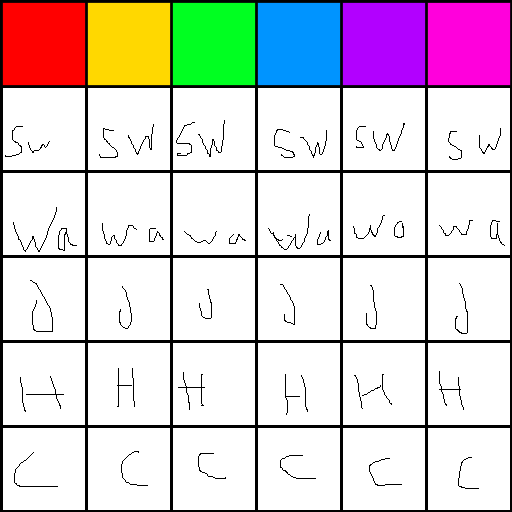
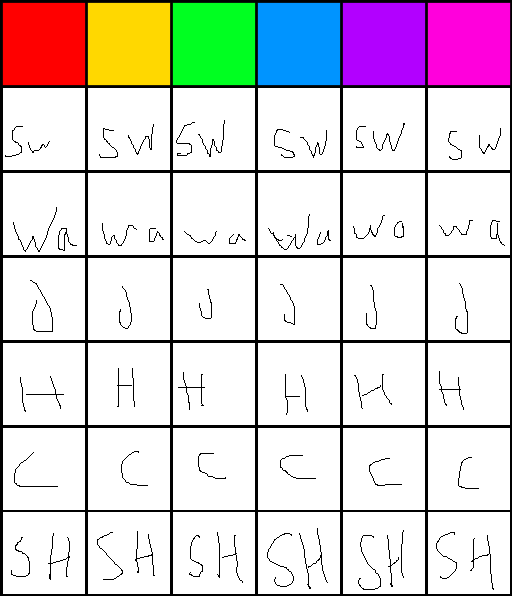
added all animations text needs work

diff --git a/MuddyGames-gameplay-programming-i-lab-03-190beb993580/AnimationFSM/main.cpp b/MuddyGames-gameplay-programming-i-lab-03-190beb993580/AnimationFSM/main.cpp
@@ -19,6 +19,8 @@ int main()
 		return EXIT_FAILURE;
 	}
 
+	int timer = 0;
+
 	// Setup Players Default Animated Sprite idle
 	AnimatedSprite Idle(texture);
 	Idle.addFrame(sf::IntRect(3, 3, 84, 84));
@@ -52,8 +54,32 @@ int main()
 	Sword.addFrame(sf::IntRect(343, 87, 84, 84));
 	Sword.addFrame(sf::IntRect(428, 87, 84, 84));
 
+	AnimatedSprite Hammer(texture);
+	Hammer.addFrame(sf::IntRect(3, 352, 84, 84));
+	Hammer.addFrame(sf::IntRect(88, 352, 84, 84));
+	Hammer.addFrame(sf::IntRect(173, 352, 84, 84));
+	Hammer.addFrame(sf::IntRect(258, 352, 84, 84));
+	Hammer.addFrame(sf::IntRect(343, 352, 84, 84));
+	Hammer.addFrame(sf::IntRect(428, 352, 84, 84));
+
+	AnimatedSprite Shovel(texture);
+	Shovel.addFrame(sf::IntRect(3, 515, 84, 84));
+	Shovel.addFrame(sf::IntRect(88, 515, 84, 84));
+	Shovel.addFrame(sf::IntRect(173, 515, 84, 84));
+	Shovel.addFrame(sf::IntRect(258, 515, 84, 84));
+	Shovel.addFrame(sf::IntRect(343, 515, 84, 84));
+	Shovel.addFrame(sf::IntRect(428, 515, 84, 84));
+
+	AnimatedSprite Walk(texture);
+	Walk.addFrame(sf::IntRect(3, 515, 84, 84));
+	Walk.addFrame(sf::IntRect(88, 515, 84, 84));
+	Walk.addFrame(sf::IntRect(173, 515, 84, 84));
+	Walk.addFrame(sf::IntRect(258, 515, 84, 84));
+	Walk.addFrame(sf::IntRect(343, 515, 84, 84));
+	Walk.addFrame(sf::IntRect(428, 515, 84, 84));
+
 	// Setup the Player
-	Player player(Idle, Jump, Climb,Sword);
+	Player player(Idle, Jump, Climb, Sword, Hammer, Shovel ,Walk);
 	Input input;
 	
 	// Start the game loop
@@ -70,27 +96,49 @@ int main()
 				window.close();
 				break;
 			case sf::Event::KeyPressed:
-				if (sf::Keyboard::isKeyPressed(sf::Keyboard::Left))
+				if (sf::Keyboard::isKeyPressed(sf::Keyboard::Num1))
 				{
-					input.setCurrent(Input::Action::LEFT);
+					input.setCurrent(Input::Action::JUMP);
+					timer = 0;
 				}
-				else if (sf::Keyboard::isKeyPressed(sf::Keyboard::Right))
+				else if (sf::Keyboard::isKeyPressed(sf::Keyboard::Num2))
 				{
-					input.setCurrent(Input::Action::RIGHT);
+					input.setCurrent(Input::Action::HAMMER);
+					timer = 0;
 				}
-				else if (sf::Keyboard::isKeyPressed(sf::Keyboard::Up))
+				else if (sf::Keyboard::isKeyPressed(sf::Keyboard::Num3))
 				{
-					input.setCurrent(Input::Action::UP);
+					input.setCurrent(Input::Action::CLIMB);
+					timer = 0;
 				}
-				else if (sf::Keyboard::isKeyPressed(sf::Keyboard::Down))
+				else if (sf::Keyboard::isKeyPressed(sf::Keyboard::Num4))
 				{
 					input.setCurrent(Input::Action::SWORD);
+					timer = 0;
+				}
+				else if (sf::Keyboard::isKeyPressed(sf::Keyboard::Num5))
+				{
+					input.setCurrent(Input::Action::SHOVEL);
+					timer = 0;
+				}
+				else if (sf::Keyboard::isKeyPressed(sf::Keyboard::Num6))
+				{
+					input.setCurrent(Input::Action::WALK);
+					timer = 0;
 				}
 				break;
 			default:
-				input.setCurrent(Input::Action::IDLE);
 				break;
 			}
+		}
+
+		if (input.getCurrent() != Input::Action::IDLE)
+		{
+			timer++;
+		}
+		else if (timer >= 300)
+		{
+			input.setCurrent(Input::Action::IDLE);
 		}
 
 		// Handle input to Player

diff --git a/MuddyGames-gameplay-programming-i-lab-03-190beb993580/AnimationFSM/Player.cpp b/MuddyGames-gameplay-programming-i-lab-03-190beb993580/AnimationFSM/Player.cpp
@@ -9,7 +9,8 @@ Player::Player()
 	m_animation.setPrevious(new Idle());
 }
 
-Player::Player(const AnimatedSprite& s ,  const AnimatedSprite& j, const AnimatedSprite& c, const AnimatedSprite& a) : Idling(s) , jump(j) , Climb(c),Sword(a)
+Player::Player(const AnimatedSprite& s ,  const AnimatedSprite& j, const AnimatedSprite& c, const AnimatedSprite& a, const AnimatedSprite& h, const AnimatedSprite& sh, const AnimatedSprite& w)
+	: Idling(s) , jump(j) , Climb(c), Sword(a), Hammer(h), Shovel(sh), Walk(w)
 {
 	m_animation.setCurrent(new Idle());
 	m_animation.setPrevious(new Idle());
@@ -43,6 +44,24 @@ AnimatedSprite& Player::getAnimatedSprite()
 		Sword.setTextureRect(Sword.getFrame(frame));
 		return Sword;
 	}
+	else if(hammer)
+	{
+		int frame = Hammer.getCurrentFrame();
+		Hammer.setTextureRect(Hammer.getFrame(frame));
+		return Hammer;
+	}
+	else if (shovel)
+	{
+		int frame = Shovel.getCurrentFrame();
+		Shovel.setTextureRect(Shovel.getFrame(frame));
+		return Shovel;
+	}
+	else
+	{
+		int frame = Walk.getCurrentFrame();
+		Walk.setTextureRect(Walk.getFrame(frame));
+		return Walk;
+	}
 }
 
 void Player::handleInput(Input in)
@@ -55,32 +74,71 @@ void Player::handleInput(Input in)
 		idle = true;
 		Jump = false;
 		climb = false;
+		sword = false;
+		hammer = false;
+		shovel = false;
+		walk = false;
 		m_animation.idle();
 		break;
-	case Input::Action::UP:	
+	case Input::Action::CLIMB:	
 		idle = false;
 		climb = true;
 		Jump = false;
+		sword = false;
+		hammer = false;
+		shovel = false;
+		walk = false;
 		m_animation.climbing();
 		break;
-	case Input::Action::LEFT:	
+	case Input::Action::JUMP:	
 		idle = false;
 		climb = false;
 		Jump = true;
+		sword = false;
+		hammer = false;
+		shovel = false;
+		walk = false;
 		m_animation.jumping();
 		break;
-	case Input::Action::RIGHT:
+	case Input::Action::HAMMER:
 		idle = false;
 		climb = false;
-		Jump = true;
-		m_animation.jumping();
+		Jump = false;
+		sword = false;
+		hammer = true;
+		shovel = false;
+		walk = false;
+	//	m_animation.();
 		break;
 	case Input::Action::SWORD:
 		idle = false;
 		climb = false;
 		Jump = false;
 		sword = true;
+		hammer = false;
+		shovel = false;
+		walk = false;
 		m_animation.swording();
+		break;
+	case Input::Action::SHOVEL:
+		idle = false;
+		climb = false;
+		Jump = false;
+		sword = false;
+		hammer = false;
+		shovel = true;
+		walk = false;
+		//m_animation.();
+		break;
+	case Input::Action::WALK:
+		idle = false;
+		climb = false;
+		Jump = false;
+		sword = false;
+		hammer = false;
+		shovel = false;
+		walk = true;
+		//m_animation.();
 		break;
 	default:
 		break;
@@ -93,6 +151,8 @@ void Player::update()
 	jump.update();
 	Climb.update();
 	Sword.update();
+	Hammer.update();
+	Shovel.update();
+	Walk.update();
 }
-
 

diff --git a/MuddyGames-gameplay-programming-i-lab-03-190beb993580/AnimationFSM/Player.h b/MuddyGames-gameplay-programming-i-lab-03-190beb993580/AnimationFSM/Player.h
@@ -13,11 +13,14 @@ private:
 	AnimatedSprite jump;
 	AnimatedSprite Climb;
 	AnimatedSprite Sword;
+	AnimatedSprite Hammer;
+	AnimatedSprite Shovel;
+	AnimatedSprite Walk;
 
 	Player();
 
 public:
-	Player(const AnimatedSprite& , const AnimatedSprite&, const AnimatedSprite&, const AnimatedSprite&);
+	Player(const AnimatedSprite& , const AnimatedSprite&, const AnimatedSprite&, const AnimatedSprite&, const AnimatedSprite&, const AnimatedSprite&, const AnimatedSprite&);
 	~Player();
 
 
@@ -27,6 +30,9 @@ public:
 	bool Jump = false;
 	bool climb = false;
 	bool sword = false;
+	bool hammer = false;
+	bool shovel = false;
+	bool walk = false;
 
 	void handleInput(Input);
 	void update();

diff --git a/MuddyGames-gameplay-programming-i-lab-03-190beb993580/AnimationFSM/Input.h b/MuddyGames-gameplay-programming-i-lab-03-190beb993580/AnimationFSM/Input.h
@@ -9,10 +9,13 @@ public:
 	enum Action
 	{
 		IDLE,
-		UP,
-		LEFT,
-		RIGHT,
-		SWORD
+		CLIMB,
+		JUMP,
+		HAMMER,
+		SWORD,
+		SHOVEL,
+		WALK
+		
 	};
 
 	void setCurrent(Action);
